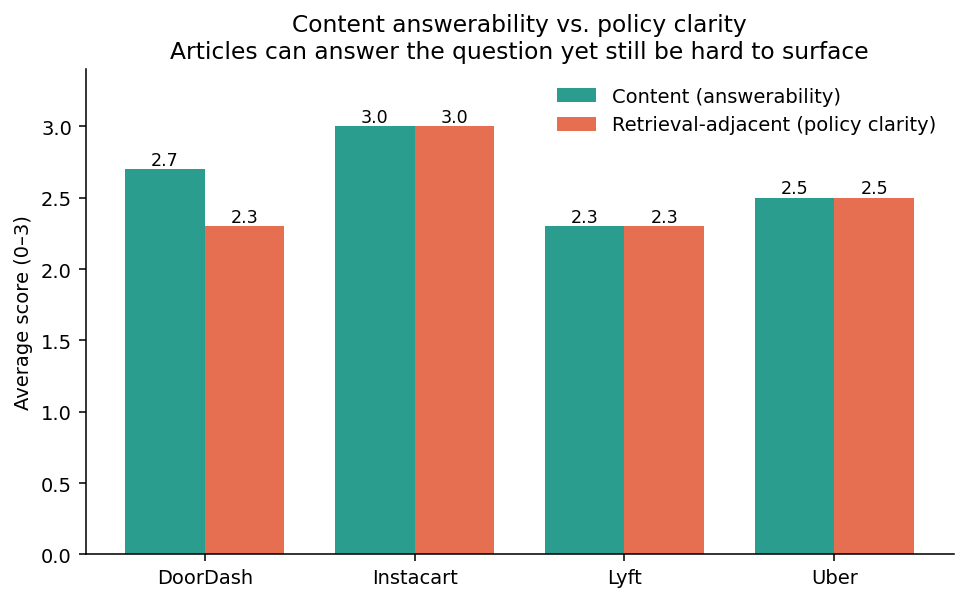
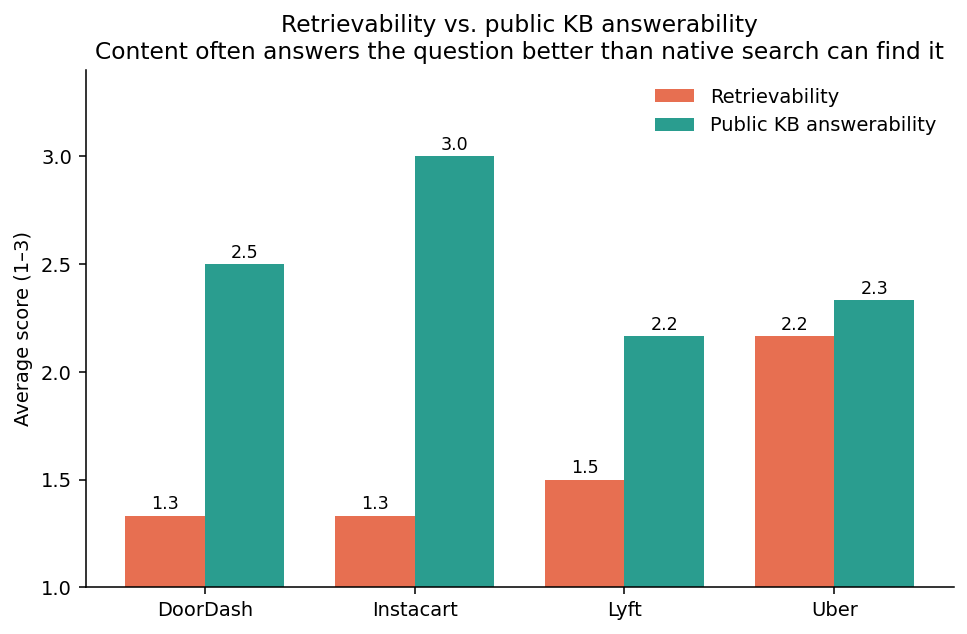
plot comparing average scores per category

diff --git a/scripts/generate_visuals.py b/scripts/generate_visuals.py
@@ -64,27 +64,74 @@ def plot_issue_family_scores():
 
 
 def plot_retrieval_vs_content_gap():
-    df = pd.read_csv(ANALYSIS / "company_score_summary.csv").sort_values("company")
-    x = range(len(df))
+    df = pd.read_csv(ROOT / "data/processed/evaluation_results.csv")
+    grouped = (df.groupby("company")[["retrievability_score", "public_kb_answerability_score"]]
+                 .mean()
+                 .sort_index()
+                 .reset_index())
+    x = range(len(grouped))
     width = 0.38
 
-    fig, ax = plt.subplots(figsize=(8, 4.5))
-    b1 = ax.bar([i - width / 2 for i in x], df["avg_answerability"], width,
-                label="Content (answerability)", color="#2a9d8f")
-    b2 = ax.bar([i + width / 2 for i in x], df["avg_policy_clarity"], width,
-                label="Retrieval-adjacent (policy clarity)", color="#e76f51")
+    fig, ax = plt.subplots(figsize=(8, 4.8))
+    b1 = ax.bar([i - width / 2 for i in x], grouped["retrievability_score"], width,
+                label="Retrievability", color="#e76f51")
+    b2 = ax.bar([i + width / 2 for i in x], grouped["public_kb_answerability_score"], width,
+                label="Public KB answerability", color="#2a9d8f")
     for bars in (b1, b2):
         for bar in bars:
             ax.text(bar.get_x() + bar.get_width() / 2, bar.get_height() + 0.03,
                     f"{bar.get_height():.1f}", ha="center", fontsize=9)
     ax.set_xticks(list(x))
-    ax.set_xticklabels(df["company"])
-    ax.set_ylim(0, 3.4)
-    ax.set_ylabel("Average score (0–3)")
-    ax.set_title("Content answerability vs. policy clarity\nArticles can answer the question yet still be hard to surface")
+    ax.set_xticklabels(grouped["company"])
+    ax.set_ylim(1, 3.4)
+    ax.set_ylabel("Average score (1–3)")
+    ax.set_title("Retrievability vs. public KB answerability\nContent often answers the question better than native search can find it")
     ax.legend(frameon=False, loc="upper right")
     ax.spines[["top", "right"]].set_visible(False)
     fig.savefig(OUT / "retrieval_vs_content_gap.png")
+    plt.close(fig)
+
+
+def plot_category_scores_by_company():
+    df = pd.read_csv(ROOT / "data/processed/evaluation_results.csv")
+    categories = [
+        ("retrievability_score", "Retrievability"),
+        ("public_kb_answerability_score", "Public KB\nanswerability"),
+        ("policy_clarity_score", "Policy clarity"),
+        ("customer_actionability_score", "Customer\nactionability"),
+        ("escalation_clarity_score", "Escalation\nclarity"),
+        ("account_specific_dependency_score", "Account-specific\ndependency"),
+        ("freshness_signal_score", "Freshness\nsignal"),
+    ]
+    cols = [c for c, _ in categories]
+    labels = [l for _, l in categories]
+    grouped = df.groupby("company")[cols].mean().sort_index()
+
+    companies = grouped.index.tolist()
+    colors = {"DoorDash": "#e76f51", "Instacart": "#2a9d8f",
+              "Lyft": "#e9c46a", "Uber": "#264653"}
+    n = len(companies)
+    width = 0.8 / n
+    x = range(len(labels))
+
+    fig, ax = plt.subplots(figsize=(12, 5.5))
+    for i, company in enumerate(companies):
+        offsets = [xi - 0.4 + width / 2 + i * width for xi in x]
+        vals = grouped.loc[company, cols].values
+        bars = ax.bar(offsets, vals, width, label=company,
+                      color=colors.get(company, "#888"))
+        for bar, v in zip(bars, vals):
+            ax.text(bar.get_x() + bar.get_width() / 2, v + 0.04,
+                    f"{v:.1f}", ha="center", fontsize=8)
+
+    ax.set_xticks(list(x))
+    ax.set_xticklabels(labels, fontsize=9)
+    ax.set_ylim(1, 3.4)
+    ax.set_ylabel("Average score (1–3)")
+    ax.set_title("Average score by scoring category and company\nFreshness signal is uniformly weak; retrievability lags content quality")
+    ax.legend(frameon=False, loc="upper right", ncol=len(companies))
+    ax.spines[["top", "right"]].set_visible(False)
+    fig.savefig(OUT / "category_scores_by_company.png")
     plt.close(fig)
 
 
@@ -93,7 +140,8 @@ def main():
     plot_company_scores()
     plot_issue_family_scores()
     plot_retrieval_vs_content_gap()
-    print(f"Wrote 4 plots to {OUT}")
+    plot_category_scores_by_company()
+    print(f"Wrote 5 plots to {OUT}")
 
 
 if __name__ == "__main__":
